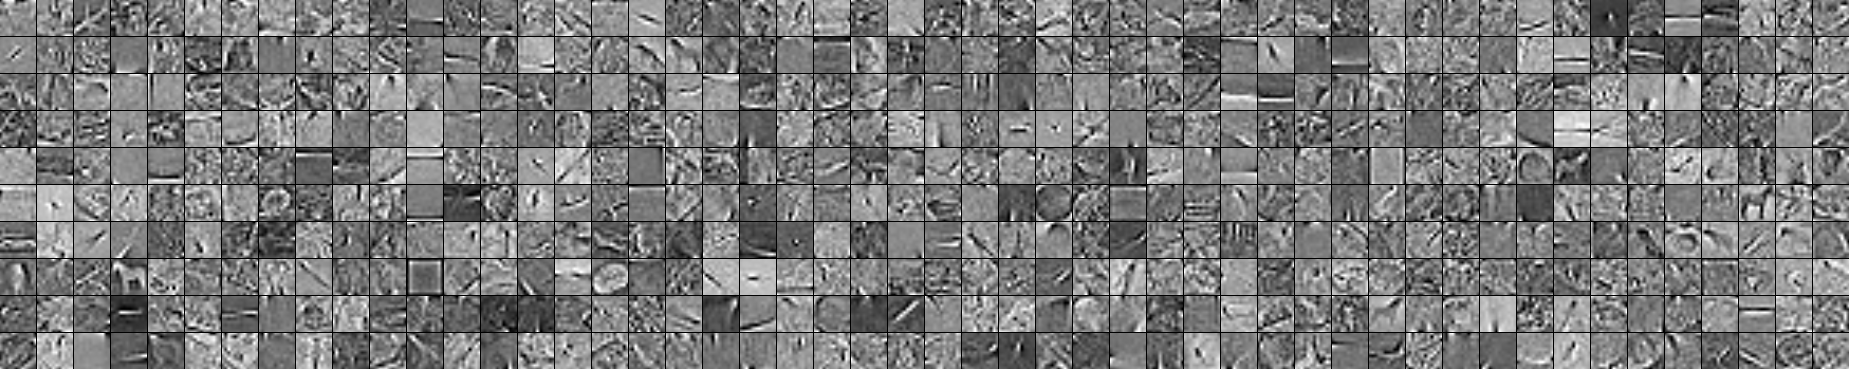
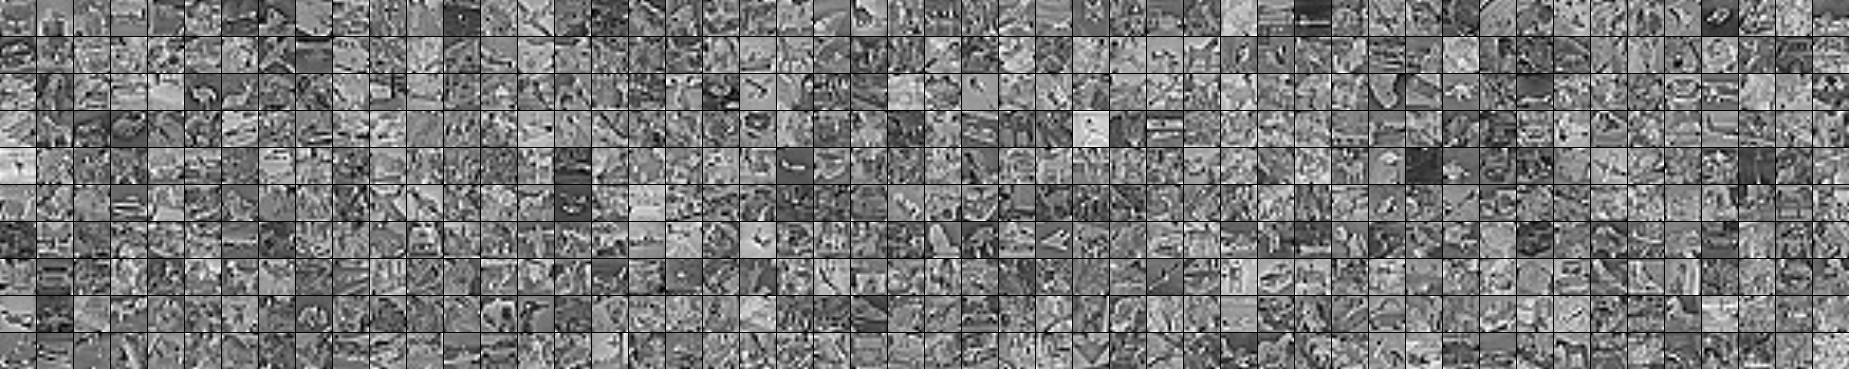
feat(kmeans): minibatch kmeans

diff --git a/kmeans/kmeans.py b/kmeans/kmeans.py
@@ -19,6 +19,7 @@ import theano
 import theano.tensor as T
 
 import numpy as np
+import scipy.misc
 
 import matplotlib.pyplot as plt
 
@@ -28,11 +29,27 @@ import six.moves.cPickle as pickle
 
 sys.path.append(os.path.join(os.path.split(__file__)[0], '..', 'data'))
 from data import load_data
+from data import shared_dataset
+from utils import tile_raster_images
+
+try:
+    import PIL.Image as Image
+except ImportError:
+    import Image
 
 class K_Means(object):
 
     def __init__(self, n_dim, n_samples, k = 500, input = None):
         """Instance of k-Means object
+
+        :type n_dim: int
+        :param n_dim: TODO
+
+        :type n_samples: int
+        :param n_samples: TODO
+
+        :type k: int
+        :param k: number of centroids used, columns in the Dictionary D
         """
         self.k = k 
         self.input = input
@@ -61,106 +78,89 @@ class K_Means(object):
         self.S_update = T.set_subtensor(zero_sub, max_values)
 
         D_update = T.dot(self.input, self.S.T) + self.D
-        self.D_norm = D_update / D_update.norm(2)
+        # self.D_norm = D_update / D_update.norm(2)
+        self.D_norm = D_update / T.sqrt(T.sum(T.sqr(D_update), axis = 0))
 
         self.cost = T.sum(T.sqrt(T.sum(T.sqr(T.dot(self.D, self.S) - self.input), axis = 0)))
 
-    def normalize(self, eta = 10):
-        """ 
-        .. math::
-            x^{(i)} := \frac{x^{(i)} - mean(x^{(i)})}{\sqrt{var(x^{(i)})}+\eta_{norm}}, \forall i
-        """
-        results, updates = theano.scan(
-                fn = lambda x_i: (x_i - T.mean(x_i)) / T.sqrt(T.var(x_i) + eta),
-                sequences = [self.input]
-                )
-        return results
-
-    def whiten_inputs(self, S, eps_zca = 0.01):
-        """
-        .. math::
-            \[V, D\] := eig(cov(x))
-            x^{(i)} := V(D + \eta_{zca}I)^{-1/2}V^Tx^{(i)}, \forall i
-        """
-
-        # S = T.dmatrix('S')
-        # x_mean = T.mean(self.input, axis = 0)
-        # results, updates = theano.scan(
-                # fn = lambda S, x_i: S + 1./self.input.shape[0] * T.outer((x_i - x_mean), (x_i - x_mean)),
-                # outputs_info = T.zeros_like(T.outer(x_mean, x_mean))
-                # sequences = [self.input]
-                # )
-        # S = results[-1]
-        eigenvalues, eigenvectors = T.nlinalg.eig(S)
-        V = eigenvectors
-        D = T.nlinalg.diag(eigenvalues)
-        I = T.identity_like(D)
-        inverted_squared = T.nlinalg.matrix_inverse(T.sqrt(D + eps_zca * I))
-        results, updates = theano.scan(
-                fn = lambda x_i: T.dot(T.dot(T.dot(V, inverted_squared), V.T), x_i),
-                sequences = [self.input]
-                )
-        return results
-
-def train(dataset = 'cifar-10-python.tar.gz', n_classes = 500, max_iter = 10):
+def train(dataset = 'cifar-10-python.tar.gz', n_classes = 500, max_iter = 10, batch_size = 600):
 
     datasets = load_data(dataset)
-    train_set_x = datasets[0][0]
+    train_set_x, train_set_y = datasets[0]
 
-    # TODO: rescale to 12 x 12 pixel images
+    n_train_batches = train_set_x.shape[0] // batch_size
+
+    print(batch_size)
+
+    print('... resizing the input from 32x32 pixels to 12x12 to pixels')
+    resized = []
+    for i in xrange(train_set_x.shape[0]):
+        resized.append(scipy.misc.imresize(np.reshape(train_set_x[i], (32, 32)), (12, 12)).flatten() )
+    train_set_x = np.asarray(resized)
+
+    print('... normalize input')
+    epsilon = 10
+    train_set_x = (train_set_x - np.mean(train_set_x, axis = 1)[:, np.newaxis]) / np.sqrt(np.var(train_set_x, axis = 1) + epsilon)[:, np.newaxis]
+
+    print('... whiten input')
+    d, V = np.linalg.eig(np.cov(train_set_x.T))
+    D = np.diag(d)
+    I = np.eye(d.shape[0])
+    epsilon = 0.01
+    train_set_x = np.dot(np.dot(np.dot(V, np.linalg.inv(np.sqrt(D + epsilon * I))), V.T), train_set_x.T)
+
+    train_set = (train_set_x.T, train_set_y)
+
+    train_set = shared_dataset(train_set)
+
+    train_set_x = train_set[0]
 
     print('... building the model')
 
-    X = T.dmatrix('X')
-    classifier = K_Means(n_dim = 32 * 32, n_samples = 30000, k = n_classes, input = X)
+    x = T.dmatrix('X')
 
-    S = T.dmatrix('S')
+    classifier = K_Means(n_dim = 12 * 12, n_samples = batch_size, k = n_classes, input = x)
+    
+    updates = [(classifier.S, classifier.S_update),
+               (classifier.D, classifier.D_norm)]
 
-    normalizer = theano.function(
-            inputs = [X],
-            outputs = classifier.normalize()
-            )
-
-    whitener = theano.function(
-            inputs = [X, S],
-            outputs = classifier.whiten_inputs(S)
-            )
+    index = T.lscalar('index')
 
     train_model = theano.function(
-            inputs = [X],
+            inputs = [index],
             outputs = classifier.cost,
-            updates = [
-                (classifier.S, classifier.S_update),
-                (classifier.D, classifier.D_norm)
-                ]
+            updates = updates,
+            givens = {
+                x: train_set_x[index * batch_size: (index + 1) * batch_size].T,
+                }
             )
 
-    print('... normalize input')
-    normalized_data = normalizer(train_set_x)
-
-    print('... whiten input')
-    whitend_data = whitener(normalized_data, np.cov(normalized_data.T)).T
 
     print('... training the model')
-    for iter in range(max_iter):
-        cur_cost = train_model(whitend_data)
-        print('iteration %d/%d, cost %.2f ' % (iter + 1, max_iter, cur_cost))
+    for epoch in range(max_iter):
+        cost = []
+        for minibatch_index in range(n_train_batches):
+            cost = train_model(minibatch_index)
+            print('epoch %i, minibatch %i, %i, cost %.2f ' % (epoch + 1, minibatch_index + 1, n_train_batches, cost))
+
 
     with open(os.path.join(os.path.split(__file__)[0], 'best_model.pkl'), 'wb') as f:
         pickle.dump(classifier, f)
 
 def plot():
-    print('... ploting the receptive fields')
+    import scipy.ndimage
     classifier = pickle.load(open(os.path.join(os.path.split(__file__)[0], 'best_model.pkl')))
-    f_pca, axes  = plt.subplots(20, 25, subplot_kw = {'xticks': [], 'yticks': []})
-    centroids = []
-    for i in range(classifier.k):
-        centroids.append(np.reshape(np.array(classifier.D.get_value())[:,i], (32, 32)))
 
-    for ax, centroid in zip(axes.flat, centroids):
-        ax.imshow(centroid, cmap=plt.cm.gray, interpolation = 'none')
-
-    plt.savefig(os.path.join(os.path.split(__file__)[0], 'repflds.png'), format = 'png')
+    print('... magnifying the receptive fields using bilinear interpolation to 36x36 pixels')
+    resized = []
+    for i in xrange(classifier.D.get_value(borrow = True).T.shape[0]):
+        resized.append(scipy.ndimage.zoom(np.reshape(classifier.D.get_value(borrow = True).T[i], (12, 12)), 3, order = 1).flatten() )
+    repflds = np.asarray(resized)
+    
+    print('... ploting the receptive fields with 36x36 pixels')
+    image = Image.fromarray(tile_raster_images(X = repflds, img_shape = (36, 36), tile_shape = (10, 50), tile_spacing=(1, 1)))
+    print('... saving image to %s' % os.path.join(os.path.split(__file__)[0], 'repflds.png'))
+    image.save(os.path.join(os.path.split(__file__)[0], 'repflds.png'))
 
 def main(argv):
 

diff --git a/data/data.py b/data/data.py
@@ -15,11 +15,37 @@ import theano
 import theano.tensor as T
 import numpy
 
-def load_data(dataset):
+def shared_dataset(data_xy, borrow=True):
+    """ Function that loads the dataset into shared variables
+
+    The reason we store our dataset in shared variables is to allow
+    Theano to copy it into the GPU (when code is run on GPU).
+    Since copying data into the GPU is slow, copying a minibatch everytime
+    it is needed (the default behaviour if the data is not a shared
+    variable) would lead to a large decrease in performance
+    """
+    data_x, data_y = data_xy
+    shared_x = theano.shared(numpy.asarray(data_x,
+        dtype=theano.config.floatX), borrow=borrow)
+
+    shared_y = theano.shared(numpy.asarray(data_y,
+        dtype=theano.config.floatX), borrow=borrow)
+
+    # When storing data on the GPU it has to be stored as floats
+    # therefore we will store the labels as ``floatX`` as well
+    # (``shared_x`` does exactly that). But during our computations
+    # we need them as ints (we use labels as index, and if they are
+    # floats it doesnt make sense) therefore instead of returning
+    # ``shared_y`` we will have to cast it to int. This little hack
+    # lets us get around this issue
+    # return shared_x, T.cast(shared_y, 'int32')
+    return shared_x, shared_y
+
+def load_data(dataset, shared = False):
     if dataset == 'cifar-10-python.tar.gz':
-        rv = load_cifar(dataset)
+        rv = load_cifar(dataset, shared)
     elif dataset == 'mnist.pkl.gz':
-        rv = load_mnist(dataset)
+        rv = load_mnist(dataset, shared)
 
     return rv
 
@@ -68,32 +94,6 @@ def load_cifar(dataset, shared = False):
             test_set = [batch_test['data'][:,:1024], numpy.asarray(batch_test['labels'])] 
         except:
             train_set, valid_set, test_set = pickle.load(f)
-
-    def shared_dataset(data_xy, borrow=True):
-        """ Function that loads the dataset into shared variables
-
-        The reason we store our dataset in shared variables is to allow
-        Theano to copy it into the GPU (when code is run on GPU).
-        Since copying data into the GPU is slow, copying a minibatch everytime
-        it is needed (the default behaviour if the data is not a shared
-        variable) would lead to a large decrease in performance
-        """
-        data_x, data_y = data_xy
-        shared_x = theano.shared(numpy.asarray(data_x,
-            dtype=theano.config.floatX), borrow=borrow)
-
-        shared_y = theano.shared(numpy.asarray(data_y,
-            dtype=theano.config.floatX), borrow=borrow)
-
-        # When storing data on the GPU it has to be stored as floats
-        # therefore we will store the labels as ``floatX`` as well
-        # (``shared_x`` does exactly that). But during our computations
-        # we need them as ints (we use labels as index, and if they are
-        # floats it doesnt make sense) therefore instead of returning
-        # ``shared_y`` we will have to cast it to int. This little hack
-        # lets us get around this issue
-        # return shared_x, T.cast(shared_y, 'int32')
-        return shared_x, shared_y
 
     if shared:
         test_set_x, test_set_y = shared_dataset(test_set)
@@ -152,32 +152,6 @@ def load_mnist(dataset, shared = False):
     # numpy.ndarray of 1 dimension (vector) that has the same length as
     # the number of rows in the input. It should give the target 
     # to the example whith the same index in the input.
-
-    def shared_dataset(data_xy, borrow=True):
-        """ Function that loads the dataset into shared variables
-
-        The reason we store our dataset in shared variables is to allow
-        Theano to copy it into the GPU (when code is run on GPU).
-        Since copying data into the GPU is slow, copying a minibatch everytime
-        it is needed (the default behaviour if the data is not a shared
-        variable) would lead to a large decrease in performance
-        """
-        data_x, data_y = data_xy
-        shared_x = theano.shared(numpy.asarray(data_x,
-            dtype=theano.config.floatX), borrow=borrow)
-
-        shared_y = theano.shared(numpy.asarray(data_y,
-            dtype=theano.config.floatX), borrow=borrow)
-
-        # When storing data on the GPU it has to be stored as floats
-        # therefore we will store the labels as ``floatX`` as well
-        # (``shared_x`` does exactly that). But during our computations
-        # we need them as ints (we use labels as index, and if they are
-        # floats it doesnt make sense) therefore instead of returning
-        # ``shared_y`` we will have to cast it to int. This little hack
-        # lets us get around this issue
-        # return shared_x, T.cast(shared_y, 'int32')
-        return shared_x, shared_y
 
     if shared:
         test_set_x, test_set_y = shared_dataset(test_set)
